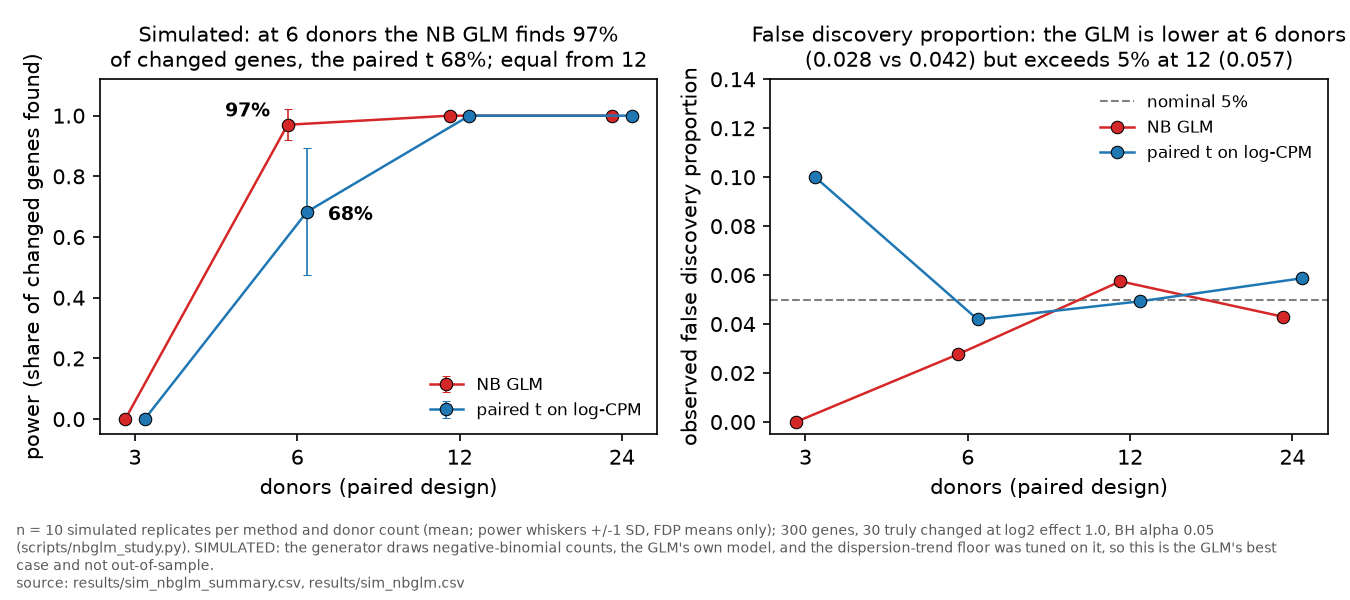
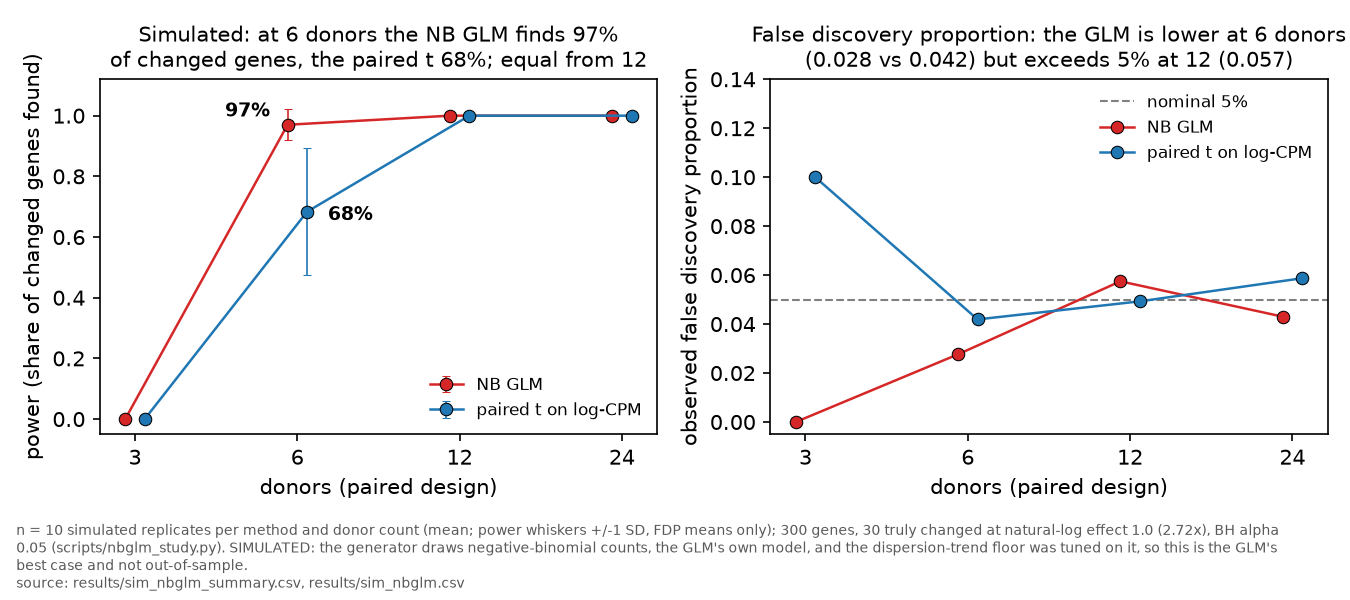
Figure footers: the planted effect is 2.72-fold (natural-log 1.0), not 2-fold
simulate.py applies the effect inside exp, so effect=1.0 is e-fold (1.44 log2).
The power_vs_fdp footer said '2-fold' and the nbglm_sim_power footer said
'log2 effect 1.0'; the nbglm_study.py docstring said 'log2 effect of 1.0 (2x)'.
Only caption strings and a docstring change; no analysis code, no result file.
The two PNGs are regenerated from the committed CSVs; check_figures.py reports
same dimensions (rendering-only difference).

Changed region(s): [[0.0, 0.87, 0.9644, 0.96]]

diff --git a/scripts/make_figures.py b/scripts/make_figures.py
@@ -210,7 +210,7 @@ def fig_power():
     n_genes = int((df["tp"] + df["fp"] + df["fn"] + df["tn"]).iloc[0])
     _save(fig, "power_vs_fdp.png",
           f"n = {df['rep'].nunique()} simulated replicates per method, {n_true} of "
-          f"{n_genes} genes given a real 2-fold effect (scripts/simulation_study.py), "
+          f"{n_genes} genes given a real 2.72-fold effect (natural-log 1.0) (scripts/simulation_study.py), "
           "BH q < 0.05; bars are means.\n"
           "source: results/sim_power.csv")
 
@@ -938,7 +938,7 @@ def fig_nbglm_sim():
     axes[1].legend(frameon=False, fontsize=8, loc="upper right")
     _save(fig, "nbglm_sim_power.png",
           f"n = {reps} simulated replicates per method and donor count (mean; power "
-          f"whiskers +/-1 SD, FDP means only); {n_tested} genes, {n_true} truly changed at log2 effect 1.0, BH "
+          f"whiskers +/-1 SD, FDP means only); {n_tested} genes, {n_true} truly changed at natural-log effect 1.0 (2.72x), BH "
           "alpha 0.05 (scripts/nbglm_study.py). SIMULATED: the generator draws negative-"
           "binomial counts, the GLM's own model, and the dispersion-trend floor was "
           "tuned on it, so this is the GLM's best case and not out-of-sample.\n"

diff --git a/scripts/nbglm_study.py b/scripts/nbglm_study.py
@@ -14,7 +14,8 @@ is the friendliest possible case for it; if it does not win here it will not
 win on real data either.
 
   4 donor counts x 10 replicates x 2 methods, 300 genes, 30 truly changed
-  with a log2 effect of 1.0 (2x). Both methods get the same pseudobulk
+  with a natural-log effect of 1.0 (2.72x, 1.44 log2; simulate.py applies
+  it inside exp, so it is not a log2 effect). Both methods get the same pseudobulk
   matrix, the same gene filter and the same BH correction.
 
 Reported per cell of the grid: mean observed FDP (false discovery proportion
